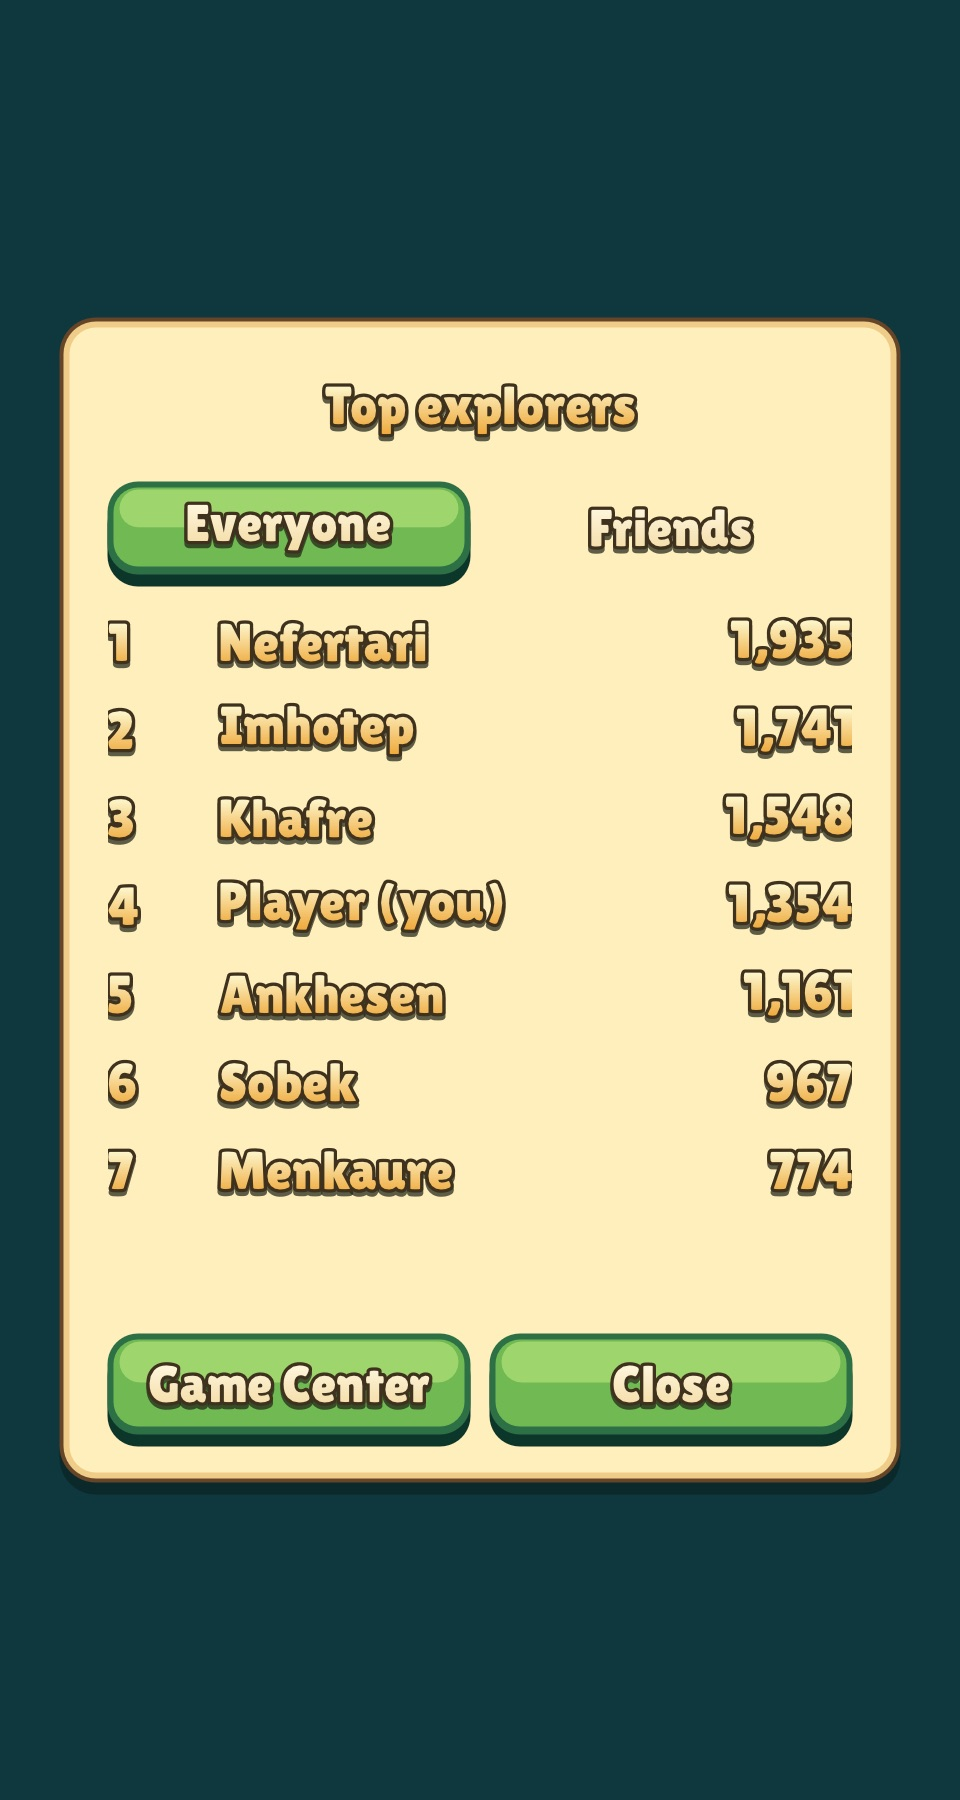
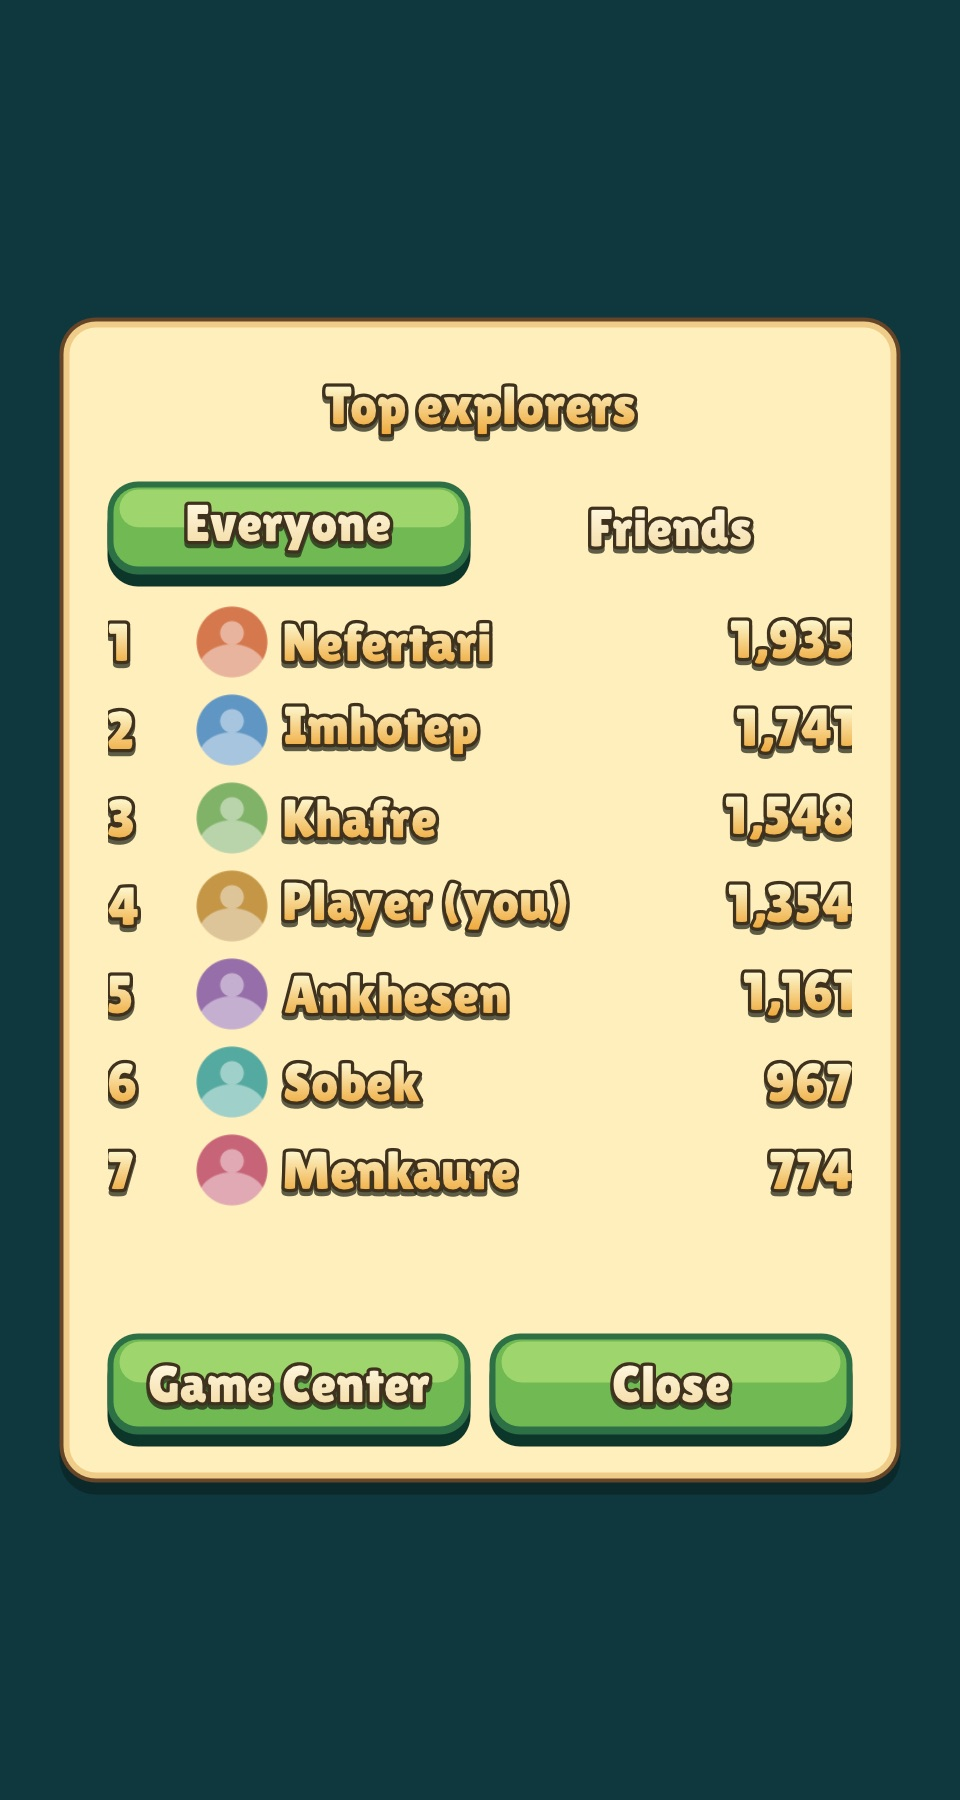
Show Game Center portraits in leaderboard rows
The platform loads each player's photo once per board (GKPlayer), clips it
to a circle and hands it to the engine, which caches the last 64 as textures
and exposes them on entries (id, photo, photo_rev). The leaderboard dialog
draws the portrait, or a round placeholder with the initial while it loads
or when there is none. --gamecenter-demo draws placeholder busts.

Changed region(s): [[0.1875, 0.3111, 0.5938, 0.6844]]

diff --git a/engine/gamecenter.c b/engine/gamecenter.c
@@ -6,11 +6,14 @@
  * and shown as a one-row board, so a game's screens work everywhere. */
 #include "gamecenter.h"
 
+#include "render.h"
+
 #include <stdio.h>
 #include <string.h>
 
 #define GC_RECORDS 64
 #define GC_SLOTS 16
+#define GC_PHOTOS 64
 #define GC_SLOT "gamecenter"
 
 struct gc_record {
@@ -29,6 +32,14 @@ struct gc_slot {
     double stamp;
 };
 
+struct gc_photo {
+    char id[48];
+    texture tex;       /* tex.tex == NULL while loading, or when the player has none */
+    double stamp;
+    int rev;
+    bool used;
+};
+
 static struct gc_state {
     int state;
     char alias[48];
@@ -36,6 +47,7 @@ static struct gc_state {
     int nrecords;
     struct gc_record records[GC_RECORDS];
     struct gc_slot slots[GC_SLOTS];
+    struct gc_photo photos[GC_PHOTOS];
     double clock;
 #ifdef ENGINE_TEST
     bool fake_platform;
@@ -143,6 +155,70 @@ static struct gc_slot *gc_slot_for(const char *board, int scope, bool create)
     return victim;
 }
 
+/* ---------------------------------------------------------------- photos */
+
+static struct gc_photo *gc_photo_find(const char *id, bool create)
+{
+    struct gc_photo *victim = NULL;
+    for (int i = 0; i < GC_PHOTOS; i++) {
+        struct gc_photo *p = &GC.photos[i];
+        if (p->used && !strcmp(p->id, id)) return p;
+        if (!victim || (victim->used && (!p->used || p->stamp < victim->stamp))) victim = p;
+    }
+    if (!create) return NULL;
+    if (victim->used && victim->tex.tex) tex_free(victim->tex);
+    *victim = (struct gc_photo){.used = true, .stamp = ++GC.clock};
+    snprintf(victim->id, sizeof victim->id, "%s", id);
+    return victim;
+}
+
+bool gamecenter_wants_photo(const char *id)
+{
+    if (!id || !*id || gc_photo_find(id, false)) return false;
+    gc_photo_find(id, true);   /* in flight: nobody asks twice */
+    return true;
+}
+
+void gamecenter_on_photo(const char *id, const unsigned char *rgba, int w, int h)
+{
+    struct gc_photo *p = id && *id ? gc_photo_find(id, true) : NULL;
+    if (!p) return;
+    p->stamp = ++GC.clock;
+    if (rgba && w > 0 && h > 0 && render_ready()) {
+        if (p->tex.tex) tex_free(p->tex);
+        p->tex = tex_from_pixels(rgba, w, h);
+    }
+    p->rev++;
+}
+
+texture gamecenter_photo(const char *id)
+{
+    struct gc_photo *p = id && *id ? gc_photo_find(id, false) : NULL;
+    return p && p->tex.tex ? p->tex : (texture){0};
+}
+
+/* A round placeholder portrait for --gamecenter-demo, tinted by the player's id. */
+static void gc_demo_photo(const char *id, int index)
+{
+    if (!gamecenter_wants_photo(id)) return;
+    enum { N = 64 };
+    static unsigned char px[N * N * 4];
+    static const unsigned char tints[][3] = {{214, 120, 78}, {96, 150, 196}, {128, 178, 104}, {196, 150, 70}, {150, 110, 170}, {84, 170, 160}, {200, 100, 120}};
+    const unsigned char *c = tints[index % 7];
+    for (int y = 0; y < N; y++)
+        for (int x = 0; x < N; x++) {
+            float dx = x + .5f - N / 2, dy = y + .5f - N / 2, d = sqrtf(dx * dx + dy * dy);
+            float cover = fminf(1, fmaxf(0, N / 2 - d));
+            float head = fminf(1, fmaxf(0, 11 - sqrtf(dx * dx + (dy + 8) * (dy + 8))));   /* a simple bust */
+            float body = fminf(1, fmaxf(0, 22 - sqrtf(dx * dx * .5f + (dy - 26) * (dy - 26) * .8f)));
+            float figure = fmaxf(head, body);
+            unsigned char *o = &px[(y * N + x) * 4];
+            for (int k = 0; k < 3; k++) o[k] = (unsigned char)(c[k] * (1 - .45f * figure) + 255 * .45f * figure);
+            o[3] = (unsigned char)(255 * cover);
+        }
+    gamecenter_on_photo(id, px, N, N);
+}
+
 /* The player's own best as a one-row board; sample rivals under --gamecenter-demo. */
 static void gc_fill_local(struct gc_slot *s)
 {
@@ -159,6 +235,8 @@ static void gc_fill_local(struct gc_slot *s)
             e->me = i == 3;
             e->score = floor(best * (1.5 - 0.15 * i));
             snprintf(e->name, sizeof e->name, "%s", e->me ? me : names[i]);
+            snprintf(e->id, sizeof e->id, "demo-%s", e->me ? "me" : names[i]);
+            gc_demo_photo(e->id, i);
         }
         if (s->scope == GAMECENTER_FRIENDS) { /* friends only: the first three and me */
             int keep = 0;
@@ -247,7 +325,13 @@ int gamecenter_entries(const char *board, int scope, gamecenter_entry *out, int 
     struct gc_slot *s = board ? gc_slot_for(board, scope, false) : NULL;
     if (!s || !s->loaded) return -1;
     int n = s->n < max ? s->n : max;
-    if (out) memcpy(out, s->entries, (size_t)n * sizeof *out);
+    if (out) {
+        memcpy(out, s->entries, (size_t)n * sizeof *out);
+        for (int i = 0; i < n; i++) {
+            struct gc_photo *p = gc_photo_find(out[i].id, false);
+            out[i].photo_rev = p && p->tex.tex ? p->rev : 0;
+        }
+    }
     return n;
 }
 
@@ -301,6 +385,8 @@ void gamecenter_on_entries(const char *board, int scope, const gamecenter_entry 
 
 void gamecenter_restart(void)
 {
+    for (int i = 0; i < GC_PHOTOS; i++)
+        if (GC.photos[i].used && GC.photos[i].tex.tex) tex_free(GC.photos[i].tex);
     memset(&GC, 0, sizeof GC);
     GC.state = GAMECENTER_UNAVAILABLE;   /* until gamecenter_start finds a backend */
 }

diff --git a/engine/ui_forms_lua.h b/engine/ui_forms_lua.h
@@ -4315,7 +4315,8 @@ static const char engine_leaderboard[] =
 "        {kind = \"list\", id = \"rows\", scroll = true, gap = 4, height = visible_rows * 44, item = function(record)\n"
 "            local role = record.me and \"leaderboard_me\" or \"leaderboard_row\"\n"
 "            return {kind = \"row\", height = 40, gap = 8, align = \"center\", children = {\n"
-"                {kind = \"label\", text = tostring(record.rank), width = 48, text_align = \"start\", role = role},\n"
+"                {kind = \"label\", text = tostring(record.rank), width = 36, text_align = \"start\", role = role},\n"
+"                {kind = \"custom\", width = 36, height = 36, paint = function(box) self:portrait(box, record) end},\n"
 "                {kind = \"label\", text = record.name .. (record.me and me_suffix or \"\"), grow = 1, text_align = \"start\", role = role},\n"
 "                {kind = \"label\", text = self.format(record.score), width = 110, text_align = \"end\", role = role},\n"
 "            }}\n"
@@ -4326,6 +4327,21 @@ static const char engine_leaderboard[] =
 "        }},\n"
 "    }}}\n"
 "    return self\n"
+"end\n"
+"\n"
+"-- The player's portrait, or a round placeholder with their initial while it\n"
+"-- loads (or when they have none). Portraits are already round.\n"
+"function L:portrait(box, record)\n"
+"    if record.photo then\n"
+"        gfx.image(record.photo, box, color.WHITE)\n"
+"        return\n"
+"    end\n"
+"    gfx.circle(box:center(), box.w * .5, color.hex(record.me and 0xD6AC62 or 0xB8A27A))\n"
+"    local ok, style = pcall(self.skin.text, self.skin, \"body\", 18)\n"
+"    if ok and style then\n"
+"        local initial = record.name:match(utf8.charpattern) or \"?\"\n"
+"        text.in_(style, box, vec2(.5, .5), initial:upper())\n"
+"    end\n"
 "end\n"
 "\n"
 "function L:active()\n"
@@ -4375,13 +4391,15 @@ static const char engine_leaderboard[] =
 "    local form = self.form\n"
 "    local rows = gamecenter.entries(self.board, self.scope)\n"
 "    local parts = {gamecenter.state(), self.scope}\n"
-"    for _, row in ipairs(rows or {}) do parts[#parts + 1] = row.rank .. \":\" .. row.name .. \":\" .. row.score .. (row.me and \"*\" or \"\") end\n"
+"    for _, row in ipairs(rows or {}) do\n"
+"        parts[#parts + 1] = row.rank .. \":\" .. row.name .. \":\" .. row.score .. \":\" .. row.photo_rev .. (row.me and \"*\" or \"\")\n"
+"    end\n"
 "    if rows == nil then parts[#parts + 1] = \"-\" end\n"
 "    local signature = table.concat(parts, \"|\")\n"
 "    if signature == self.signature then return end\n"
 "    self.signature = signature\n"
 "    local items = {}\n"
-"    for i, row in ipairs(rows or {}) do items[i] = {id = i, rank = row.rank, name = row.name, score = row.score, me = row.me} end\n"
+"    for i, row in ipairs(rows or {}) do items[i] = {id = i, rank = row.rank, name = row.name, score = row.score, me = row.me, photo = row.photo} end\n"
 "    assert(form:set_items(\"rows\", items))\n"
 "    local note = self:note(rows)\n"
 "    form:set(\"status\", note or \"\")\n"

diff --git a/engine/gamecenter_platform.c b/engine/gamecenter_platform.c
@@ -39,6 +39,36 @@ static UIViewController *gc_top_controller(void)
 @end
 static GCFinish *gc_finish;
 
+/* A player's portrait as a round RGBA image, handed to the engine once. */
+static void gc_load_photo(GKPlayer *player)
+{
+    NSString *pid = player.gamePlayerID;
+    if (!pid.length || !gamecenter_wants_photo(pid.UTF8String)) return;
+    [player loadPhotoForSize:GKPhotoSizeNormal withCompletionHandler:^(UIImage *photo, NSError *error) {
+        enum { N = 96 };
+        unsigned char *px = NULL;
+        if (photo && !error && photo.CGImage) {
+            px = calloc(N * N, 4);
+            CGColorSpaceRef space = CGColorSpaceCreateDeviceRGB();
+            CGContextRef context = CGBitmapContextCreate(px, N, N, 8, N * 4, space, kCGImageAlphaPremultipliedLast | kCGBitmapByteOrder32Big);
+            CGContextAddEllipseInRect(context, CGRectMake(0, 0, N, N));
+            CGContextClip(context);
+            CGContextSetInterpolationQuality(context, kCGInterpolationHigh);
+            CGContextDrawImage(context, CGRectMake(0, 0, N, N), photo.CGImage);
+            CGContextRelease(context);
+            CGColorSpaceRelease(space);
+            for (int i = 0; i < N * N; i++) {   /* the renderer wants straight alpha */
+                unsigned char *o = px + i * 4;
+                if (o[3] && o[3] < 255) for (int k = 0; k < 3; k++) o[k] = (unsigned char)MIN(255, o[k] * 255 / o[3]);
+            }
+        }
+        gc_main(^{
+            gamecenter_on_photo(pid.UTF8String, px, px ? N : 0, px ? N : 0);
+            free(px);
+        });
+    }];
+}
+
 bool gamecenter_platform_available(void) { return NSBundle.mainBundle.bundleIdentifier != nil; }
 
 void gamecenter_platform_start(void)
@@ -102,9 +132,11 @@ void gamecenter_platform_load(const char *board, int scope, int count)
                     row->score = (double)e.score;
                     row->me = [e.player.gamePlayerID isEqualToString:GKLocalPlayer.localPlayer.gamePlayerID];
                     snprintf(row->name, sizeof row->name, "%s", e.player.displayName.UTF8String ?: "");
+                    snprintf(row->id, sizeof row->id, "%s", e.player.gamePlayerID.UTF8String ?: "");
                 }
                 (void)mine;
                 gamecenter_on_entries(name.UTF8String, scope, rows, n, true);
+                for (GKLeaderboardEntry *e in entries) gc_load_photo(e.player);
             });
         }];
     }];

diff --git a/tests/test_gamecenter.c b/tests/test_gamecenter.c
@@ -135,3 +135,24 @@ TEST(gamecenter_cache_evicts_the_oldest_board)
     CHECK(gamecenter_entries("board19", GAMECENTER_GLOBAL, NULL, 0) == 0);
     CHECK(gamecenter_entries("board0", GAMECENTER_GLOBAL, NULL, 0) < 0);
 }
+
+TEST(gamecenter_portraits_load_once_and_survive_failure)
+{
+    fresh(true);
+    CHECK(gamecenter_wants_photo("p1") && !gamecenter_wants_photo("p1"));   /* in flight: nobody asks twice */
+    gamecenter_on_photo("p1", NULL, 0, 0);                                  /* no portrait available */
+    CHECK(!gamecenter_wants_photo("p1") && gamecenter_photo("p1").tex == NULL);
+    CHECK(!gamecenter_wants_photo("") && !gamecenter_wants_photo(NULL));
+    gamecenter_on_auth(true, "Me");
+    gamecenter_load("stars", GAMECENTER_GLOBAL, 3);
+    gamecenter_entry in[1] = {{.rank = 1, .score = 5, .name = "A", .id = "p1"}};
+    gamecenter_on_entries("stars", GAMECENTER_GLOBAL, in, 1, true);
+    gamecenter_entry rows[2];
+    CHECK(gamecenter_entries("stars", GAMECENTER_GLOBAL, rows, 2) == 1 && !strcmp(rows[0].id, "p1") && rows[0].photo_rev == 0);
+    for (int i = 0; i < 100; i++) {   /* more players than the cache holds */
+        char id[16];
+        snprintf(id, sizeof id, "q%d", i);
+        CHECK(gamecenter_wants_photo(id));
+    }
+    CHECK(gamecenter_wants_photo("q0"));   /* the oldest was evicted, so it may load again */
+}

diff --git a/engine/engine.h b/engine/engine.h
@@ -456,7 +456,9 @@ typedef struct {
     int rank;               /* 1 = best */
     double score;
     char name[48];          /* the player's alias */
+    char id[48];            /* Game Center's player id; "" for the local fallback row */
     bool me;                /* the local player's own row */
+    int photo_rev;          /* 0 until the player's portrait arrives, then changes when it does */
 } gamecenter_entry;
 int gamecenter_state(void);
 const char *gamecenter_player(void);                         /* alias; "" until signed in */
@@ -467,6 +469,7 @@ double gamecenter_best(const char *board);                   /* the player's bes
 void gamecenter_load(const char *board, int scope, int count);    /* refresh asynchronously; see gamecenter_entries */
 bool gamecenter_loading(const char *board, int scope);
 int gamecenter_entries(const char *board, int scope, gamecenter_entry *out, int max);   /* -1 until loaded */
+texture gamecenter_photo(const char *id);                  /* a player's round portrait; tex = NULL until it arrives */
 void gamecenter_show(int view, const char *board);           /* Apple's own screens; no-op elsewhere */
 void gamecenter_access_point(bool on);                       /* Apple's floating Game Center badge */
 

diff --git a/engine/script.c b/engine/script.c
@@ -280,11 +280,17 @@ int lgamecenter_entries(lua_State *S)
     if (n < 0) { lua_pushnil(S); return 1; }
     lua_createtable(S, n, 0);
     for (int i = 0; i < n; i++) {
-        lua_createtable(S, 0, 4);
+        lua_createtable(S, 0, 7);
         lua_pushinteger(S, rows[i].rank);   lua_setfield(S, -2, "rank");
         lua_pushnumber(S, rows[i].score);   lua_setfield(S, -2, "score");
         lua_pushstring(S, rows[i].name);    lua_setfield(S, -2, "name");
         lua_pushboolean(S, rows[i].me);     lua_setfield(S, -2, "me");
+        lua_pushstring(S, rows[i].id);      lua_setfield(S, -2, "id");
+        if (rows[i].photo_rev) {
+            api_push_texture(S, gamecenter_photo(rows[i].id));
+            lua_setfield(S, -2, "photo");
+        }
+        lua_pushinteger(S, rows[i].photo_rev);   lua_setfield(S, -2, "photo_rev");
         lua_rawseti(S, -2, i + 1);
     }
     return 1;

diff --git a/engine/gamecenter.h b/engine/gamecenter.h
@@ -18,6 +18,8 @@ void gamecenter_platform_access_point(bool on);
 /* Engine side, called by the backend. */
 void gamecenter_on_auth(bool signed_in, const char *alias);
 void gamecenter_on_report(bool achievement, const char *name, double value, bool ok);
+bool gamecenter_wants_photo(const char *id);   /* true once per player: load their portrait now */
+void gamecenter_on_photo(const char *id, const unsigned char *rgba, int w, int h);   /* NULL rgba: none available */
 void gamecenter_on_entries(const char *board, int scope, const gamecenter_entry *entries, int n, bool ok);
 
 /* Core hooks. */

diff --git a/docs/GAMECENTER.md b/docs/GAMECENTER.md
@@ -63,7 +63,8 @@ player; a new player simply sees a short list.
 
 `require("leaderboard")` (`engine/leaderboard.lua`) is the screen a game opens
 from a button. It lists the rows `gamecenter.entries` returns in a scrolling
-list under Everyone / Friends tabs, marks the player's own row, offers a button
+list under Everyone / Friends tabs, shows each player's Game Center portrait
+(a round placeholder with their initial until it arrives), marks the player's own row, offers a button
 to Apple's native board when signed in, and paints with the game's `ui.skin`.
 It also explains an empty or loading board, and tells a signed-out player how to
 compare with others. Without Game Center it shows the player's own best, so a
@@ -94,6 +95,25 @@ and the status line; without them the labels use the skin's default text.
 The chosen tab is a button and the other a flat caption, so it reads in any
 skin. `tests/lua/leaderboard.lua` covers the dialog; the picture above is a
 capture with `--gamecenter-demo`.
+
+## Portraits
+
+Each row carries `id` (Game Center's player id) and, once loaded, `photo`, a
+round texture (`photo_rev` changes when it arrives). The platform loads a
+portrait once per player after a board arrives (`GKPlayer loadPhotoForSize:`),
+clips it to a circle at 96 px and hands it to the engine, which keeps the last
+64 (`gamecenter.photo` in C: `gamecenter_photo(id)`). A player without a
+portrait, or a failed load, leaves `photo` nil and is not asked again that run.
+`--gamecenter-demo` draws placeholder busts so the dialog can be captured.
+
+## One board per level
+
+A board is only a name, so a game may keep one per level: `gamecenter.submit("level_07", score)` and
+`leaderboard.new{board = "level_07"}`. Every board still has to exist in App Store
+Connect under `<bundle id>.level_07` (Game Center allows 500 per app, and
+boards can be grouped into a leaderboard set), and a board nobody has played
+looks empty. Prefer one overall board as the main screen and per-level boards
+reached from the level result or the level list, opened on the Friends tab.
 
 ## Engine and platform boundary
 
